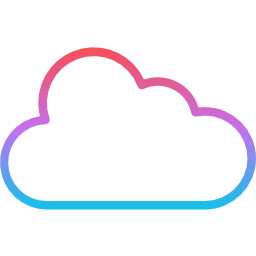
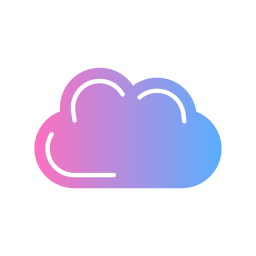
yeni guncellemeler

diff --git a/Egitim Sonrasi Uygulamalari/12. hafta/Team SpiderMan/hayriye.py b/Egitim Sonrasi Uygulamalari/12. hafta/Team SpiderMan/hayriye.py
@@ -37,22 +37,42 @@ koyu_mavi = (0, 0, 139)
 class Button:
     # butonumuz icin x ekseni, y ekseni, yukseklik, genislik, renk ve yazi 
     # parametrelerini sinifimiza dahil ettik
-    def __init__(self, x, y, width, height, color, text):
+    def __init__(self, x, y, width, height, color1, color2, image_name, text):
         self.rect = pygame.Rect(x, y, width, height)
-        self.color = color
+        self.color1 = color1
+        self.color2 = color2
         self.text = text
+        self.image = pygame.image.load(image_name)
     # butonumuzu cizecek ve ana pencereye ekleyecek fonksiyonu yazdik. Burada surface degiskeni ile 
     # butonun cizilecegi pencereyi belirtecegiz.
     def draw(self, surface):
-        pygame.draw.ellipse(surface, self.color, self.rect)
-        font = pygame.font.Font(None, 64)
-        text = font.render(self.text, True, siyah,gumus)
+        pygame.draw.rect(surface, self.color1, self.rect)
+        image_rect = self.image.get_rect(center = self.rect.center)
+        
+        surface.blit(self.image, image_rect)
+        font = pygame.font.SysFont("calibri", 32, True)
+        text = font.render(self.text, True, self.color2)
         text_rect = text.get_rect(center=self.rect.center)
         surface.blit(text, text_rect)
 # ana ekranda oyuna baslayacagimiz play butonunu olusturduk
-play_button = Button(250, 250, 500, 100, gumus, "PLAY GAME")
+play_button = Button(250, 250, 500, 100, acik_deniz_yesili, gumus,'cloud.png', "PLAY GAME")
 #replay butonu
-replay_button = Button(250, 350, 500, 100, gumus, "REPLAY GAME")
+replay_button = Button(250, 370, 500, 100, kirmizi, gumus,'cloud2.png', "REPLAY GAME")
+###YAZI EKLEME SINIFI###
+class YaziEkle:
+    def __init__(self, x, y,  color1, color2, text,bold):
+        self.rect = (x,y)
+        self.color1 = color1
+        self.color2 = color2
+        self.text = text
+        self.bold = bold
+    def draw(self,surface):
+        font = pygame.font.SysFont("calibri", self.bold, True)
+        text = font.render(self.text, True, self.color1,self.color2)
+        text_rect = text.get_rect()
+        text_rect.topleft = self.rect
+        surface.blit(text, text_rect)
+
 #########OYUNCU SINIFI####
 class Oyuncu(pygame.sprite.Sprite):
     def __init__(self):
@@ -105,10 +125,7 @@ font_box = pygame.font.Font(None, 32)
 input_box = pygame.Rect(430, 500, 140, 32)
 kullanici = ''
 #oyuncu adi: yazisi
-oyuncuadi_font = pygame.font.SysFont("calibri", 32, True)
-oyuncu_adi = oyuncuadi_font.render('Oyuncu Adı: ', True, siyah,gumus)
-oyuncuadiC = oyuncu_adi.get_rect()
-oyuncuadiC.topleft = (400,450)
+oyuncu_adi = YaziEkle(400,450,gumus,None,'Oyuncu Adı: ',32)
 ############### ANA OYUN DONGUMUZ ###############
 running = True
 while running:
@@ -123,7 +140,7 @@ while running:
                 kullanici = kullanici[:-1]
             else:
                 kullanici += event.unicode
-    # her dongude arka plan pembeye boyanacak.
+    # her dongude arka plan yesile boyanacak.
     screen.fill(acik_deniz_yesili)
     # play butonunu cizdirdik
     play_button.draw(screen)
@@ -131,18 +148,17 @@ while running:
     # input kutusu rengini ayarladik
     pygame.draw.rect(screen, kirmizi, input_box, 2)
     # input kutusu içindeki metni çiz
-    txt_surface = font_box.render(kullanici, True, mavi)
+    txt_surface = font_box.render(kullanici, True, gumus)
     screen.blit(txt_surface, (input_box.x+5, input_box.y+5))
     # input kutusunun sınırlarını çiz
-    pygame.draw.rect(screen, (0, 0, 0), input_box, 2)
+    pygame.draw.rect(screen, gumus, input_box, 2)
     #oyuncu adi yazisi
-    screen.blit(oyuncu_adi,oyuncuadiC)
+    oyuncu_adi.draw(screen)
     #mouse pozisyonunu ve mouse basilip basilmadigi bilgilerini aldik
     mouse_pos = pygame.mouse.get_pos()
     mouse_pressed = pygame.mouse.get_pressed()
     # eger mouse play butonunun uzerindeyse ve mousenin sol tusuna iki kere basildiysa bu kod calisacak.
     # Amacimiz bu kod blogu calistiginda oyunun ilk penceresi calissin.
-
     if mouse_pressed[0] and play_button.rect.collidepoint(mouse_pos):
 ####### 1. PENCERE ##########
         kopek = pygame.image.load('dog.png')
@@ -182,10 +198,7 @@ while running:
                     kopek = pygame.image.load('dog2.png')
 #Oyuncu kopege temas ederse game over penceresi acilacak
             if oyuncu.rect.colliderect(kopekC):
-                font = pygame.font.SysFont("calibri", 64, True)
-                yazi = font.render('GAME OVER!', True, siyah)
-                yaziCd = yazi.get_rect()
-                yaziCd.center = (genislik/2, yukseklik/2)
+                yazi = YaziEkle(300,200,siyah,None,'GAME OVER!',64)
                 pencere_go = pygame.display.set_mode((genislik,yukseklik))
                 running_kopek = True
                 while running_kopek:
@@ -196,9 +209,10 @@ while running:
                             running_kopek = False
                     pencere_go.fill(kirmizi)
                     replay_button.draw(pencere_go)
+                    yazi.draw(pencere_go)
                     mouse_pos = pygame.mouse.get_pos()
                     mouse_pressed = pygame.mouse.get_pressed()
-                    pencere_go.blit(yazi,yaziCd)
+                    
                     if mouse_pressed[0] and replay_button.rect.collidepoint(mouse_pos):
                         oyuncu.rect.bottom = 520
                         oyuncu.rect.centerx = 350 
@@ -210,11 +224,8 @@ while running:
                 point += 1
                 moneyC.topleft = (1100,700)
 #skor yazisini ekrana ekledik    
-            font = pygame.font.SysFont("calibri", 32, True)
-            skor = font.render(f'SKOR : {point}', True, siyah,beyaz)
-            SKORc = skor.get_rect()
-            SKORc.topleft = (0,0)
-            pencere1.blit(skor,SKORc)
+            skor = YaziEkle(0,0,siyah,gumus,f'Skor: {point}',32)
+            skor.draw(pencere1)
             pencere1.blit(money,moneyC)
             pencere1.blit(kopek, kopekC)
             oyuncu_grup.draw(pencere1)
@@ -243,10 +254,7 @@ while running:
                 anahtar3C = anahtar3.get_rect()
                 anahtar3C.topleft = (700,300)
 #gorev yazisini ekrana ekledik
-                gorev_font = pygame.font.SysFont("calibri", 32, True)
-                gorev = gorev_font.render('ODA NUMARANI BUL', True, siyah,beyaz)
-                gorevC = gorev.get_rect()
-                gorevC.topright = (1000,0)
+                gorev = YaziEkle(650,10,siyah,None,'Oda numaranı bul!',32)
 
                 running2 = True
                 while running2:
@@ -272,10 +280,6 @@ while running:
                             temizlikci = pygame.image.load('temizlikcisag.png')
 #Oyuncu temizlikciye temas ederse game over penceresi acilacak
                     if oyuncu.rect.colliderect(temizlikciC):
-                        font = pygame.font.SysFont("calibri", 64, True)
-                        yazi = font.render('GAME OVER!', True, siyah)
-                        yaziCd = yazi.get_rect()
-                        yaziCd.center = (genislik/2, yukseklik/2)
                         pencere_go = pygame.display.set_mode((genislik,yukseklik))
                         running_temizlikci = True
                         while running_temizlikci:
@@ -289,7 +293,7 @@ while running:
                             replay_button.draw(pencere_go)
                             mouse_pos = pygame.mouse.get_pos()
                             mouse_pressed = pygame.mouse.get_pressed()
-                            pencere_go.blit(yazi,yaziCd)
+                            yazi.draw(pencere_go)
                             if mouse_pressed[0] and replay_button.rect.collidepoint(mouse_pos):
                                 oyuncu.rect.bottom = 520
                                 oyuncu.rect.centerx = 350 
@@ -299,17 +303,14 @@ while running:
                             pygame.display.update()
 #sifreyi bulmak icin anahtara temas edecek
                     if oyuncu.rect.collidepoint(anahtar3C.topleft):
-                        sifre_font = pygame.font.SysFont("calibri", 32, True)
-                        sifre = sifre_font.render('ODA NUMARAN 103', True, siyah,beyaz)
-                        sifreC = sifre.get_rect()
-                        sifreC.center = (500,100)
-                        pencere2.blit(sifre,sifreC)
+                        sifre = YaziEkle(650,100,kirmizi,None,'Oda numaran 103',32)
+                        sifre.draw(pencere2)
                     pencere2.blit(temizlikci,temizlikciC)
-                    pencere2.blit(gorev,gorevC)
+                    gorev.draw(pencere2)
                     pencere2.blit(anahtar1,anahtar1C)
                     pencere2.blit(anahtar2,anahtar2C)
                     pencere2.blit(anahtar3,anahtar3C)
-                    pencere2.blit(skor,SKORc)
+                    skor.draw(pencere2)
                     oyuncu_grup.draw(pencere2)
                     oyuncu_grup.update()
                     pygame.display.update()
@@ -362,7 +363,7 @@ while running:
                             pencere3.blit(su_birikintisi,su_birikintisiC)
                             pencere3.blit(muz,muzC)
                             pencere3.blit(orumcek,orumcekC)
-                            pencere3.blit(skor,SKORc)
+                            skor.draw(pencere3)
                             oyuncu_grup.draw(pencere3)
                             oyuncu_grup.update()
                             pygame.display.update()
@@ -372,14 +373,10 @@ while running:
                                 oyuncu.rect.bottom = 520
                                 oyuncu.rect.centerx = 100
                                 pencere4 = pygame.display.set_mode((genislik,yukseklik))
-                                arka_plan4 = pygame.image.load('pencere4.jpeg')
-
-                                hosgeldin_font = pygame.font.SysFont("calibri", 32, True)
+                                arka_plan4 = pygame.image.load('pencere4.jpeg')              
 # hosgeldin yazisi
-                                hosgeldin_yazi = hosgeldin_font.render(f'odana hosgeldin {kullanici}', True, siyah,sari)
-                                hosgeldinC = hosgeldin_yazi.get_rect()
-                                hosgeldinC.topleft = (450,100)
-        
+                                hosgeldin_yazi = YaziEkle(450,100,beyaz,None,f'Odana Hosgeldin {kullanici.capitalize()}',32)
+                    
                                 running4 = True
                                 while running4:
                                     for event in pygame.event.get():
@@ -393,8 +390,8 @@ while running:
                                     mouse_pressed = pygame.mouse.get_pressed()
                                     pencere4.fill(siyah)
                                     pencere4.blit(arka_plan4,(0,0))
-                                    pencere4.blit(skor,SKORc)
-                                    pencere4.blit(hosgeldin_yazi,hosgeldinC)
+                                    skor.draw(pencere4)
+                                    hosgeldin_yazi.draw(pencere4)
                                     oyuncu_grup.draw(pencere4)
                                     oyuncu_grup.update()
                                     pygame.display.update()
